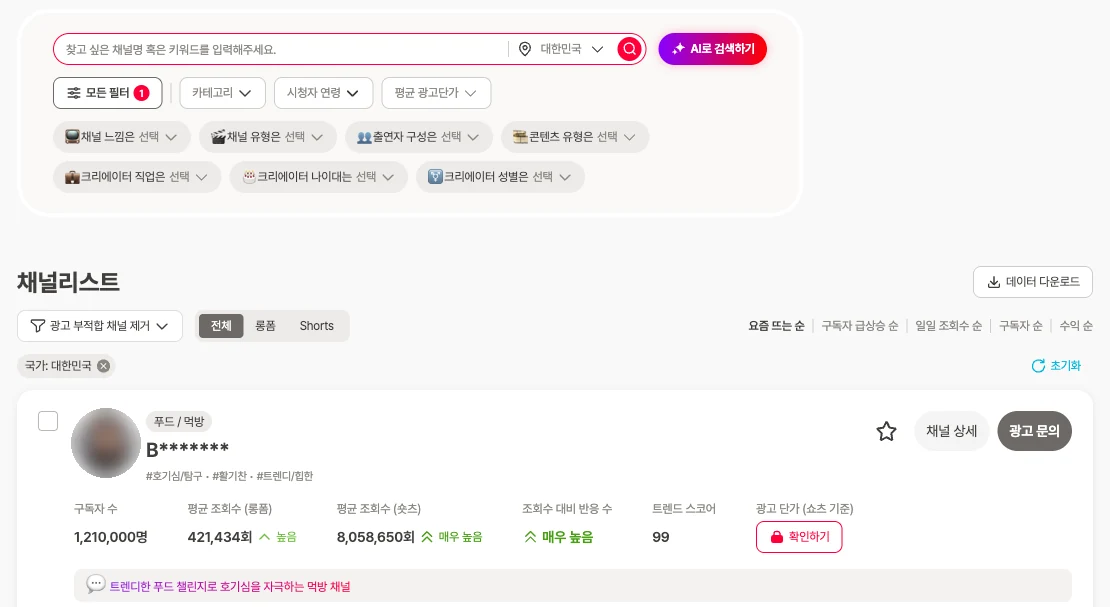
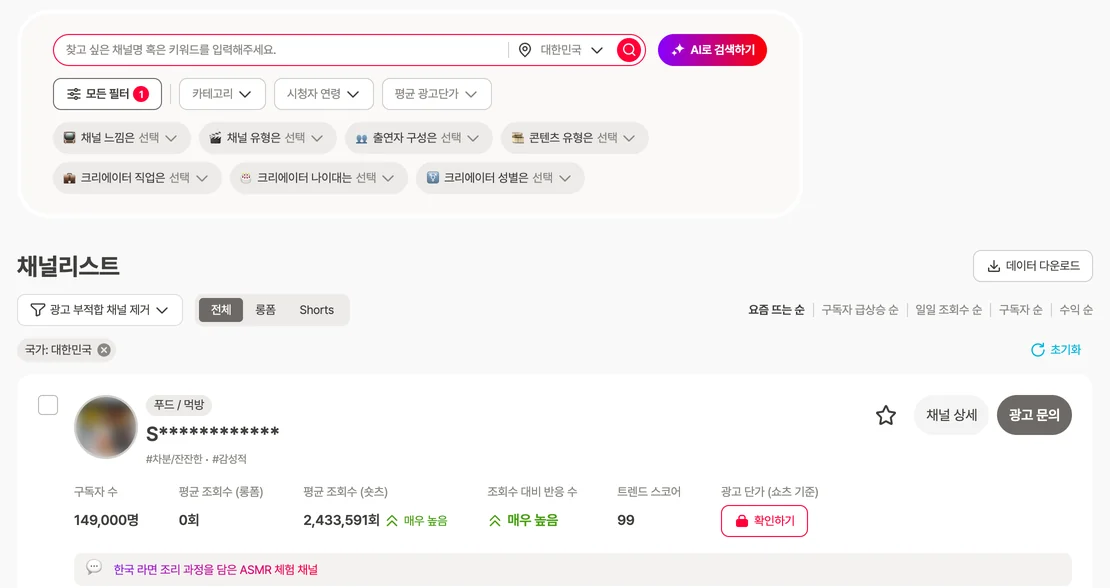
Vling screenshots: recapture at 2x from the public pages, srcset 1x/2x, full-size view opens 2x

diff --git a/src/data.ts b/src/data.ts
@@ -132,7 +132,7 @@ export type Project = {
   org: string;
   period: string;
   metric?: string;
-  images?: { src: string; width: number; height: number; alt: string; caption: string; live?: string }[];
+  images?: { src: string; width: number; height: number; alt: string; caption: string; live?: string; src2x?: string }[];
   summary: string;
   // 접힌 상태에서 보이는 세 줄과 한눈에 보기용 핵심 결과
   // 백엔드는 큰 수치(stat), 프론트엔드는 화면(visual: 이미지를 접힌 상태에서 보여 줌)이나 전후 막대(bars)
@@ -471,8 +471,8 @@ export const projects: Project[] = [
   {
     id: "vling-search",
     images: [
-      { src: "/vling-video-search.webp", width: 1110, height: 674, live: "https://vling.net/algorithm-score?na=KR", alt: "Vling 영상 검색 화면", caption: "영상 검색 화면. 큐레이션 섹션과 결과 그리드를 팀원과 함께 구현했습니다. 채널 이름은 서비스에서 가려 둔 상태이고, 썸네일과 프로필 사진은 흐리게 처리했습니다." },
-      { src: "/vling-channel-search.webp", width: 1110, height: 607, live: "https://vling.net/search?na=KR&sort=trendsScorePercentile", alt: "Vling 채널 검색 화면", caption: "채널 검색 화면. 채널 카드와 채널 성격 필터 11종을 구현했습니다. 채널 이름은 서비스에서 가려 둔 상태이고, 썸네일과 프로필 사진은 흐리게 처리했습니다." },
+      { src: "/vling-video-search.webp", src2x: "/vling-video-search@2x.webp", width: 1110, height: 676, live: "https://vling.net/algorithm-score?na=KR", alt: "Vling 영상 검색 화면", caption: "영상 검색 화면. 큐레이션 섹션과 결과 그리드를 팀원과 함께 구현했습니다. 채널 이름은 서비스에서 가려 둔 상태이고, 썸네일과 프로필 사진은 흐리게 처리했습니다." },
+      { src: "/vling-channel-search.webp", src2x: "/vling-channel-search@2x.webp", width: 1110, height: 588, live: "https://vling.net/search?na=KR&sort=trendsScorePercentile", alt: "Vling 채널 검색 화면", caption: "채널 검색 화면. 채널 카드와 채널 성격 필터 11종을 구현했습니다. 채널 이름은 서비스에서 가려 둔 상태이고, 썸네일과 프로필 사진은 흐리게 처리했습니다." },
     ],
     title: "Vling 영상 검색과 채널 검색 개편",
     org: "버즈앤비 현장실습", period: "2026.07 ~ 09",

diff --git a/src/data.en.ts b/src/data.en.ts
@@ -436,8 +436,8 @@ export const projects: Project[] = [
   {
     id: "vling-search",
     images: [
-      { src: "/vling-video-search.webp", width: 1110, height: 674, live: "https://vling.net/algorithm-score?na=KR", alt: "Vling video search screen", caption: "Video search. I built the curation sections and the results grid with teammates. Channel names are masked by the service; thumbnails and profile photos are blurred." },
-      { src: "/vling-channel-search.webp", width: 1110, height: 607, live: "https://vling.net/search?na=KR&sort=trendsScorePercentile", alt: "Vling channel search screen", caption: "Channel search. I built the channel cards and the 11 channel attribute filters. Channel names are masked by the service; thumbnails and profile photos are blurred." },
+      { src: "/vling-video-search.webp", src2x: "/vling-video-search@2x.webp", width: 1110, height: 676, live: "https://vling.net/algorithm-score?na=KR", alt: "Vling video search screen", caption: "Video search. I built the curation sections and the results grid with teammates. Channel names are masked by the service; thumbnails and profile photos are blurred." },
+      { src: "/vling-channel-search.webp", src2x: "/vling-channel-search@2x.webp", width: 1110, height: 588, live: "https://vling.net/search?na=KR&sort=trendsScorePercentile", alt: "Vling channel search screen", caption: "Channel search. I built the channel cards and the 11 channel attribute filters. Channel names are masked by the service; thumbnails and profile photos are blurred." },
     ],
     title: "Vling Video Search and Channel Search Redesign",
     org: "Buzz & Beyond internship", period: "2026.07 ~ 09",

diff --git a/src/components/Projects.tsx b/src/components/Projects.tsx
@@ -13,8 +13,8 @@ function Figures({ images, zoom = false }: { images: NonNullable<Project["images
       {images.map((im) => (
         <figure key={im.src}>
           {zoom ? (
-            <a className="figlink" href={im.src} target="_blank" rel="noopener">
-              <img src={im.src} width={im.width} height={im.height} alt={im.alt} loading="lazy" />
+            <a className="figlink" href={im.src2x ?? im.src} target="_blank" rel="noopener">
+              <img src={im.src} srcSet={im.src2x ? `${im.src} 1x, ${im.src2x} 2x` : undefined} width={im.width} height={im.height} alt={im.alt} loading="lazy" />
             </a>
           ) : (
             <img src={im.src} width={im.width} height={im.height} alt={im.alt} loading="lazy" />
